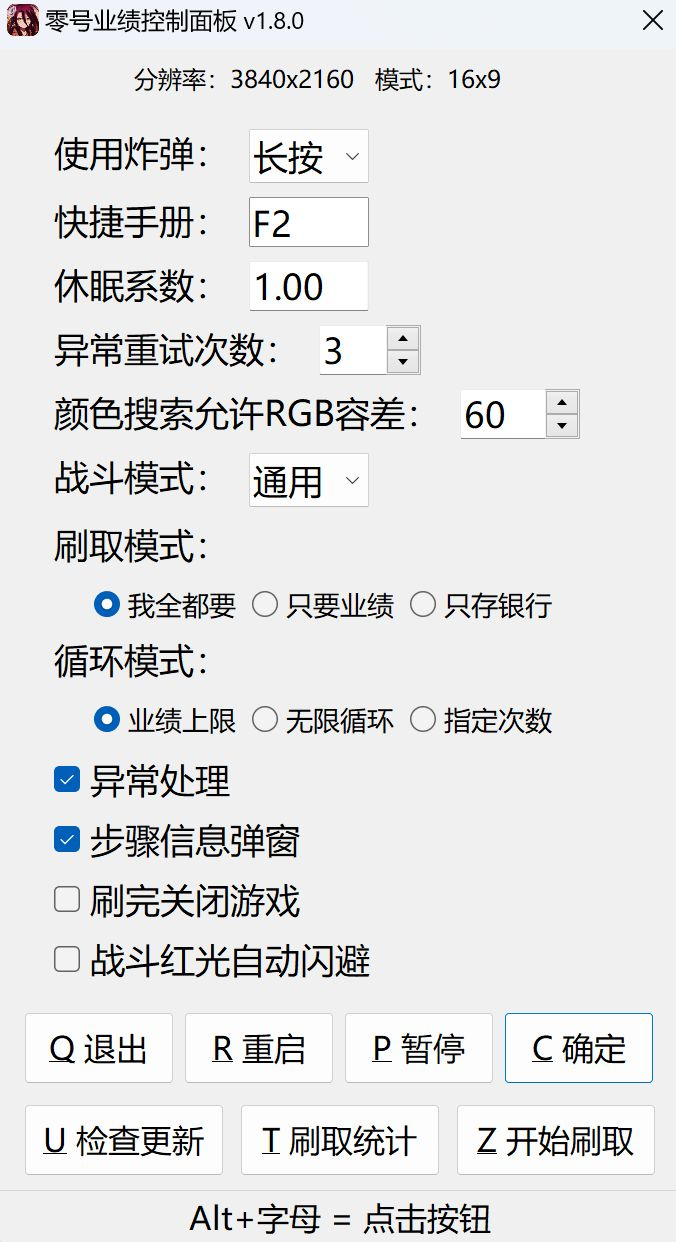
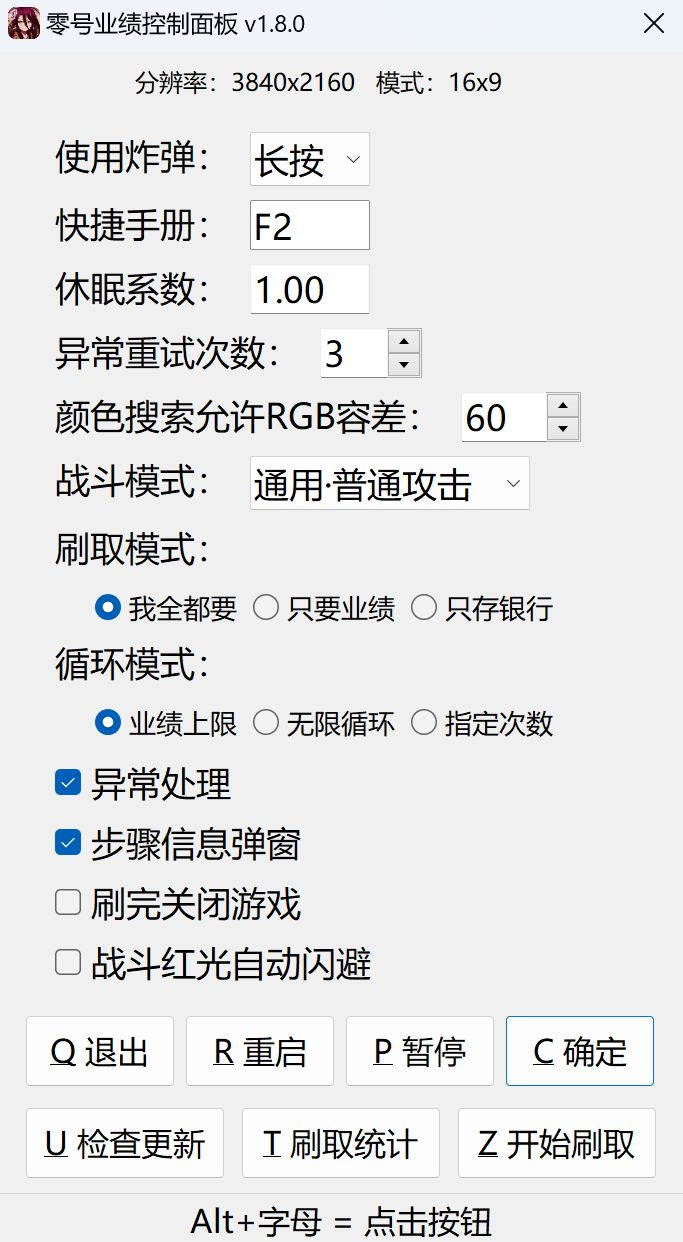
优化红光闪避 新增战斗时长统计 优化动画等待逻辑

diff --git a/README.md b/README.md
@@ -35,17 +35,17 @@
     > <br>**休眠系数**：调整脚本在加载动画时的等待时长倍率
     > <br>**异常重试次数**：允许总的异常时重试的次数
     > <br>**颜色搜索允许RGB容差**：过大可能误点，过小可能匹配失败，按需调整
-    > <br>**战斗模式**：通用 / 艾莲
+    > <br>**战斗模式**：通用·普通攻击（一直A） / 艾莲
     > <br>**刷取模式**：业绩+银行 / 只要业绩 / 只存银行
     > <br>**循环模式**：刷至业绩达周上限 / 无限循环 / 指定刷取次数
     > <br>**异常处理**：关闭后，任何意料之外的情况都将直接结束刷取并抛出错误，用于排查错误原因
     > <br>**步骤信息弹窗**：是否输出刷取过程中每个步骤的信息弹窗
     > <br>**刷完关闭游戏**：业绩达周上限/达指定刷取次数 则关闭游戏；开启无限循环后此项无效
-    > <br>**战斗红光自动闪避**：开启此模式后：战斗期间会识别红光进行闪避；战斗期间CPU占用会略微提高；代理人事件会选择取消接应。仅推荐在平时战斗时长>30s的情况下开启，可能会有所提高，请自行测试按需开关
+    > <br>**战斗红光自动闪避**：开启此模式后：战斗期间会识别红光进行闪避；战斗期间CPU占用会略微提高；代理人事件会选择取消接应。效果受RGB容差影响，推荐在战斗时长>30s（游戏内计时，不含动画）的情况下开启，自行测试按需开关
     > <br>**退出**：退出脚本
     > <br>**重启**：重启脚本，修改缩放、分辨率后建议重启脚本
     > <br>**暂停**：暂停当前刷取线程，可使用Alt+P快捷暂停/恢复
-    > <br>**刷取统计**：刷取次数、总计耗时、平均耗时、每次刷取的耗时信息
+    > <br>**刷取统计**：刷取次数、总计耗时、平均战斗耗时、平均刷取耗时、每次刷取详情
     > <br>**开始刷取**：开始循环刷取，默认情况下会一直刷取直至零号业绩达到周上限
     > <br>**本轮结束**：在当前执行的刷取任务完成后结束循环刷取
 
@@ -73,7 +73,7 @@
     > 如果你的电脑配置足够好，当然也可以尝试缩小休眠系数以压缩刷取时长
 
 5. 战斗模式可选通用或鲨鱼妹，只要哪怕一直a都能S评价即可，超过80s会判定战斗异常
-    > 战斗时长一般在15~50s以内，超过50s建议换个角色或尝试开启红光自动闪避
+    > 战斗时长一般在15~50s以内（游戏内计时，不含动画），超过50s建议换个角色或尝试开启红光自动闪避
 
 6. 为避免消息弹窗等的影响，建议在脚本运行期间开启 **免打扰模式**
 
